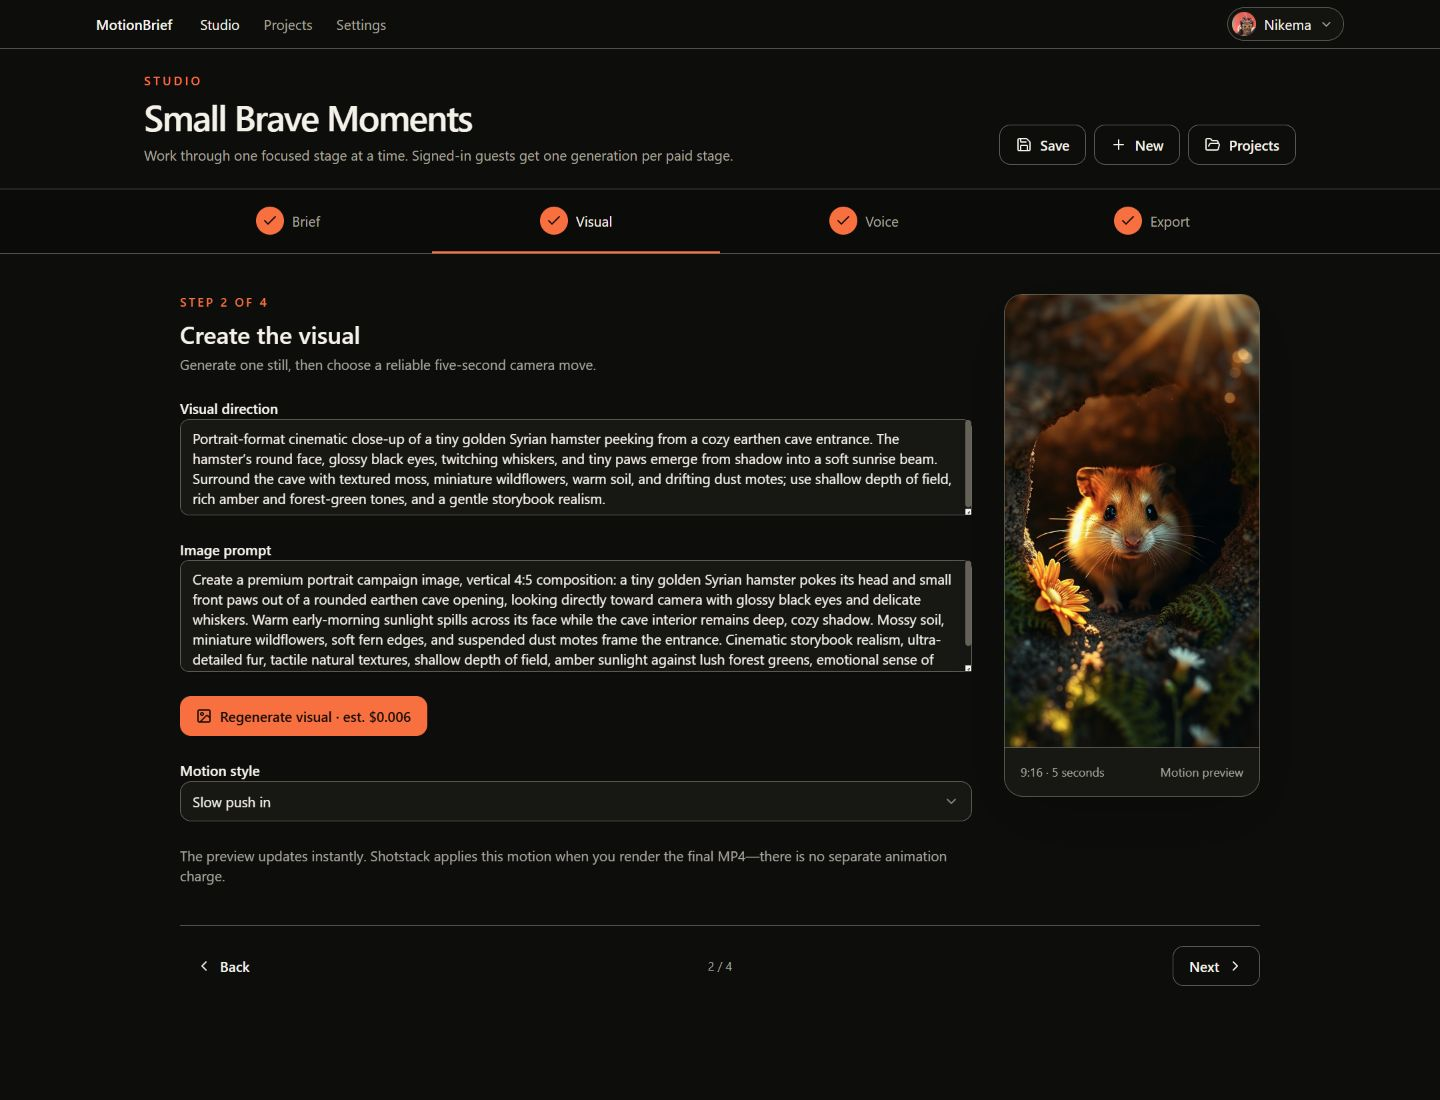
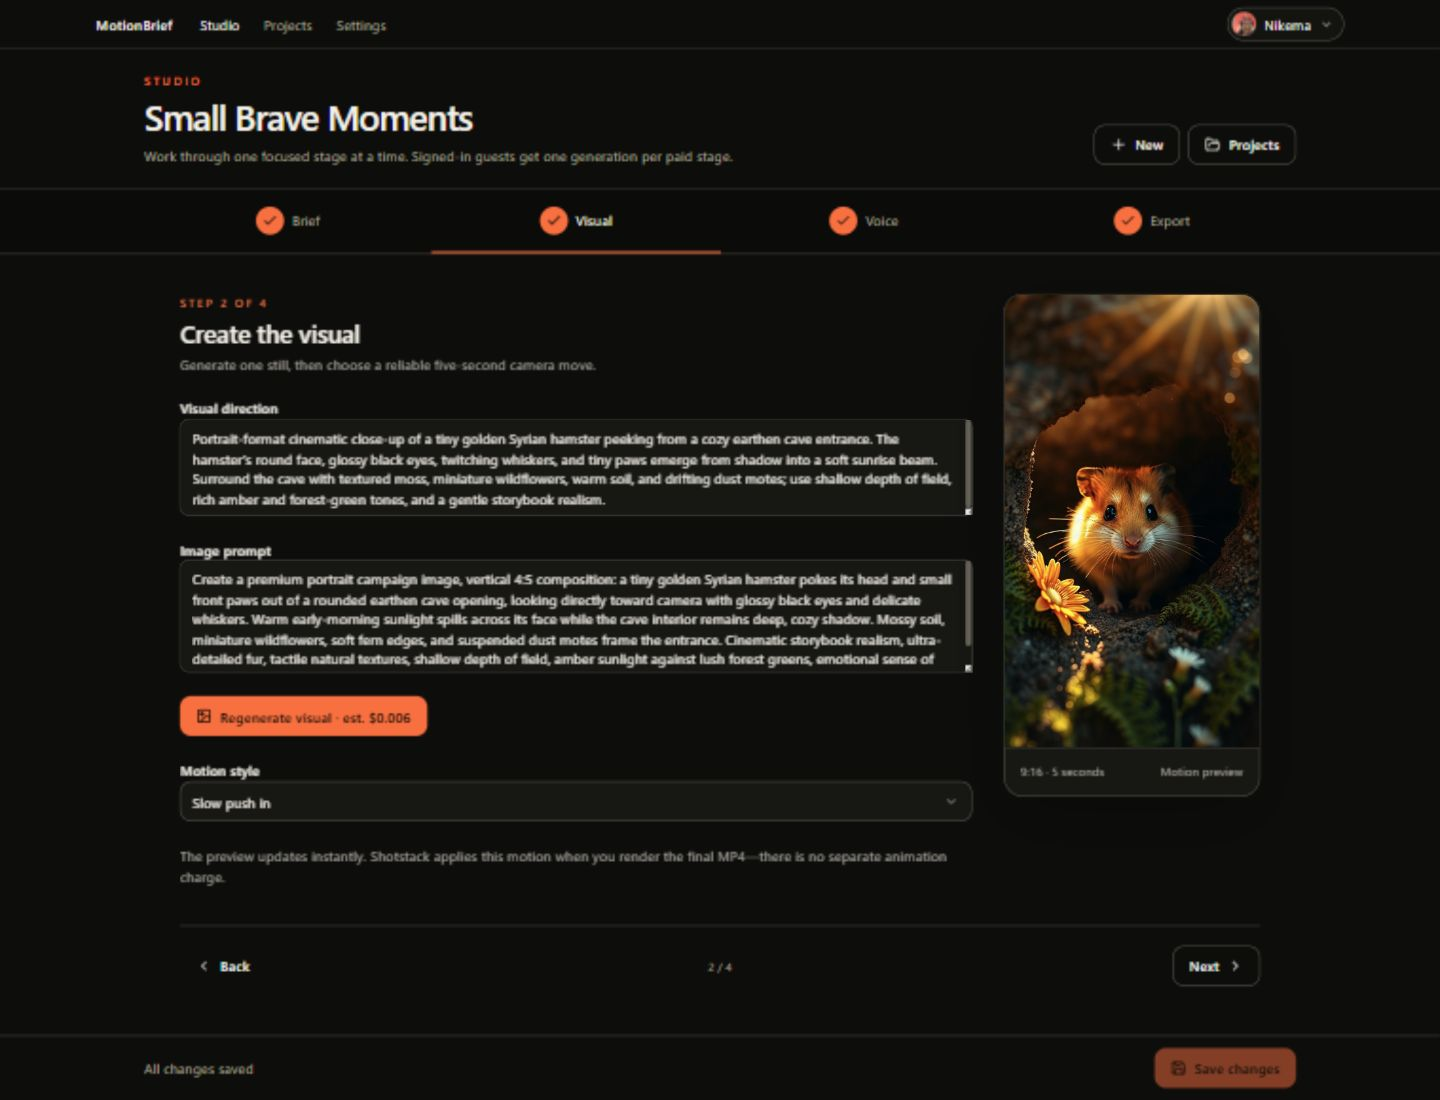
Refresh MotionBrief case study screenshots and documentation

diff --git a/docs/motionbrief-sources.md b/docs/motionbrief-sources.md
@@ -30,3 +30,11 @@ The owner confirmed clipboard delivery, Markdown asset links, media downloads, a
 
 The owner approved the title, first-person narrative, final emphasis, and publication after reviewing the updated evidence. The study is now marked `draft: false` and `evidenceReviewed: true` for production.
 
+## September 10 pinned Save screenshot refresh
+
+The owner moved Save into a bar pinned to the bottom of the screen and requested an updated explanation and screenshots. The article describes the intent: keeping Save within reach while editing. This is not a measured usability improvement.
+
+Reopened the existing Small Brave Moments project in the signed-in deployed app and captured all four workflow steps with the pinned `Save changes` bar and `All changes saved` status. Replaced the four `-desktop.jpg` images at their existing dimensions: 1440 × 1327 for Brief and 1440 × 1100 for Visual, Voice, and Export. The Visual asset also updates the homepage and article cover. Updated the capture date, alt text, and brief caption. The narration estimate remains $0.0052.
+
+No project fields were edited and no generation or render requests were made. The existing MP4 was loaded and paused for the export capture. Earlier narrow images and live-check evidence captures remain historical records and are not used in the current article walkthrough. Temporary viewport overrides were reset after capture.
+
